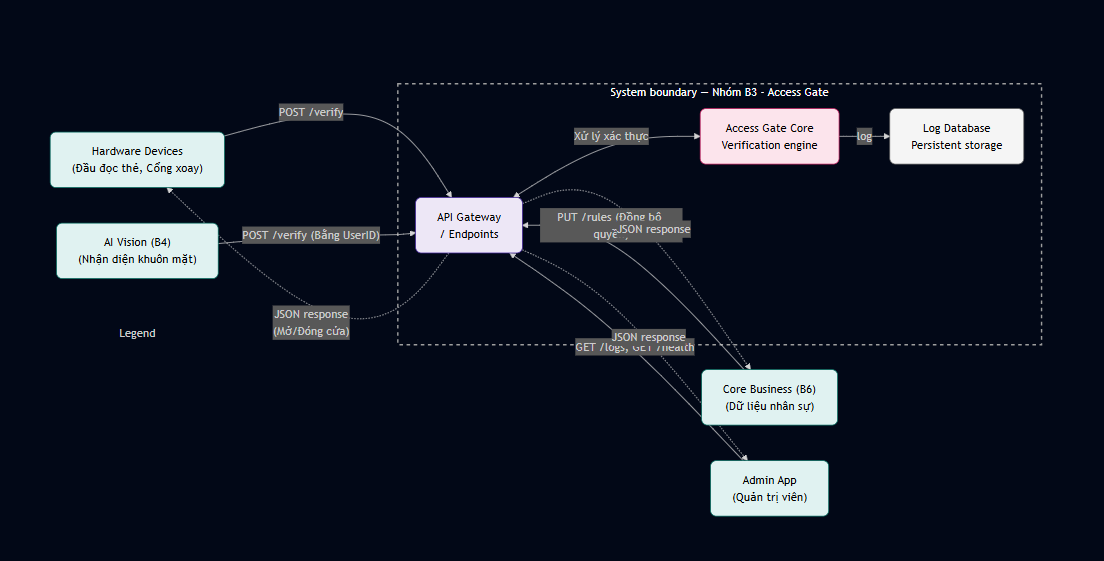
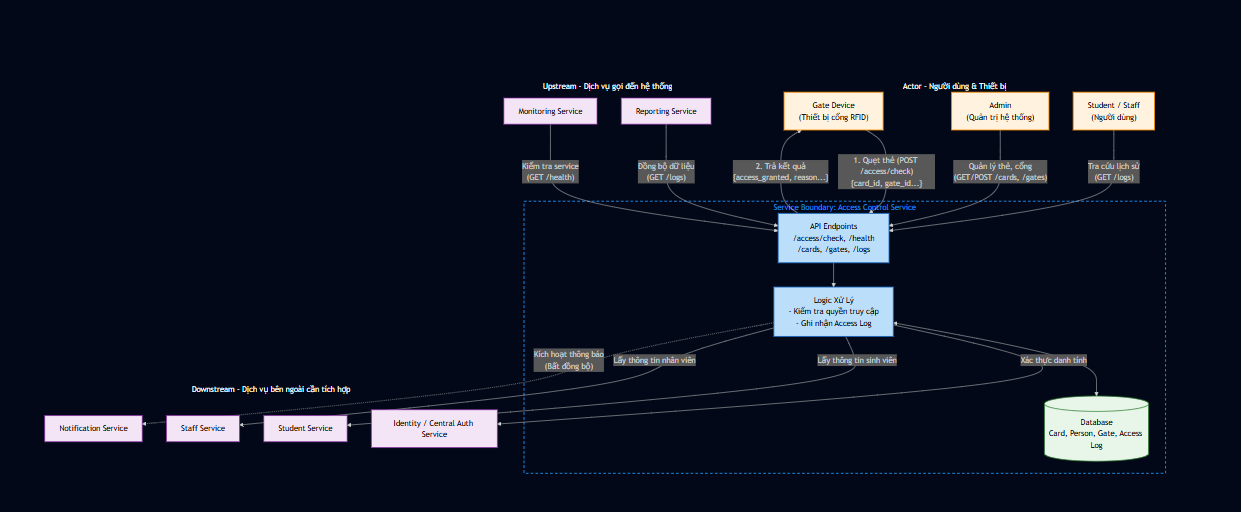
feat: hoàn thành setup và minh chứng buổi 1

diff --git a/evidence/buoi-01/service-boundary.md b/evidence/buoi-01/service-boundary.md
@@ -4,7 +4,7 @@
 
 - Tên nhóm:nhóm 10
 - Lớp: CNTT17-13
-- Thành viên: Trần Văn minh, Phạm Khắc Hoàng,Trần Quang Minh
+- Thành viên: Trần Văn minh, Phạm Khắc Hoàng,Trần Quang Minh,Nguyễn Đức Thịnh
 - Service nhóm phụ trách:Xây dựng dịch vụ kiểm soát ra/vào.
 - Sản phẩm tổng thể của lớp:Product B
 
